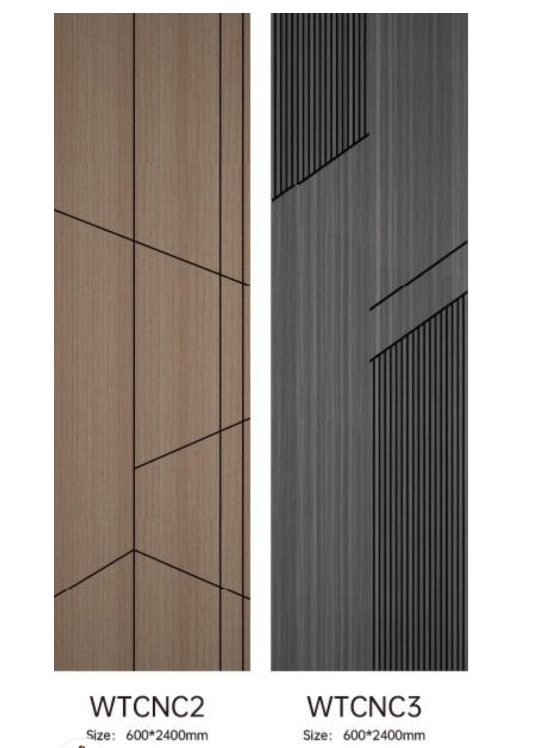
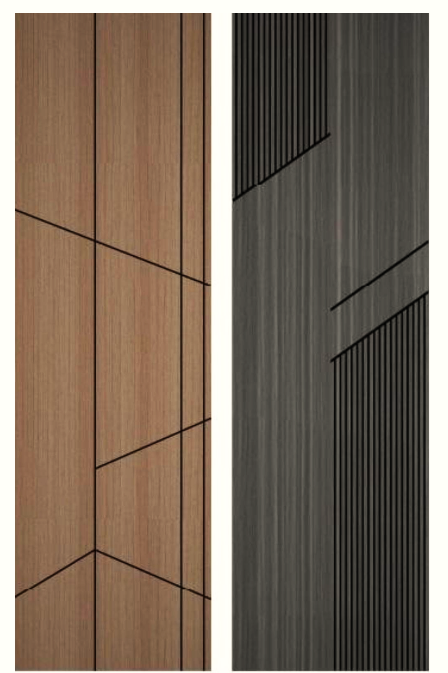
Fix wall frame moulding gallery, rename accent wall style, remove watermarked photo
- Remove wfm-9 (duplicate hallway runner shot) from Wall Frame Moulding gallery, back to a clean 8-photo grid
- Rename "Golden Strips" accent wall style to "Boxed Accent Wall Panelling", drop Limpopo mentions
- Replace watermarked Feature Project photo on Wall Frame Moulding with a clean shot
- Swap in the cleaner (no text captions) two-colourway swatch photo on PVC Panels

diff --git a/lib/materials.ts b/lib/materials.ts
@@ -72,7 +72,6 @@ export const materials: MaterialData[] = [
       { id: "wfm-6", label: "Floor-to-ceiling box moulding, living room", src: "/uploads/wfm-fullwall-hero.png" },
       { id: "wfm-7", label: "Fluted panel accent, living room lounge", src: "/uploads/wfm-feature-lounge-fluted-accent-2.png" },
       { id: "wfm-8", label: "Classic panel moulding, ornate cornice", src: "/uploads/catalogue-wallframe-2.jpg" },
-      { id: "wfm-9", label: "Panel moulding hallway, runner rug", src: "/uploads/wfm-hallway-runner-rug.jpg" },
     ],
     designCardsEyebrow: "Design Styles",
     designCards: [
@@ -155,7 +154,7 @@ export const materials: MaterialData[] = [
       { id: "aw-style-linear", title: "Linear Detail", desc: "Floor-to-ceiling feature wall with vertical and horizontal lines.", src: "/uploads/aw-linear-detail-3.png" },
       { id: "aw-style-geometric", title: "Geometric", desc: "Angular frames and intersecting lines for instant depth.", src: "/uploads/aw-geometric-chevron.png" },
       { id: "aw-style-waterfall", title: "Waterfall Illusion", desc: "Irregular vertical strips cascade down the wall like flowing water — a single-tone design with real movement.", src: "/uploads/aw-waterfall-illusion.png" },
-      { id: "aw-style-golden", title: "Golden Strips", desc: "Minimalist strip detailing — installed in Limpopo.", src: "/uploads/aw-golden-strips-grid.png" },
+      { id: "aw-style-golden", title: "Boxed Accent Wall Panelling", desc: "Minimalist strip detailing.", src: "/uploads/aw-golden-strips-grid.png" },
     ],
     introSections: [
       {
@@ -177,7 +176,7 @@ export const materials: MaterialData[] = [
         imageId: "aw-feature-1",
         imageSrc: "/uploads/catalogue-accentwall-7.jpg",
         paragraphs: [
-          "A project for a client in Limpopo, a plain media wall lifted with nothing more than golden strips for a little detail and elegance.",
+          "A plain media wall lifted with nothing more than golden strips for a little detail and elegance.",
           "The result is a feature wall with real presence, without ever feeling over-designed.",
         ],
       },
